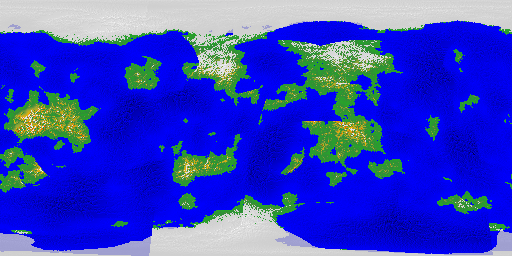
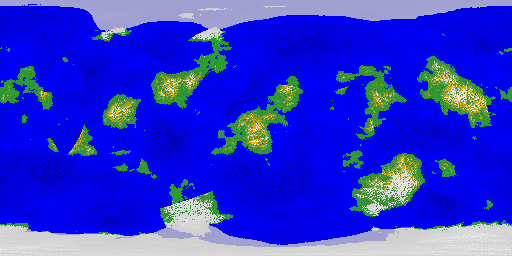
fixed stuff

diff --git a/src/main.cpp b/src/main.cpp
@@ -601,7 +601,6 @@ std::cout << "writing temp.png" << std::endl;
 		Image::system->write("temp.png", img);
 	}
 
-#if 0
 	// hmm, I've got my Image library, and I've got my matrix lua library, and I've got my matrix ffi library ... hmmmmmmm
 	auto img = std::make_shared<Image::Image>(size);
 	for (auto i : hs.range()) {
@@ -625,7 +624,8 @@ std::cout << "writing temp.png" << std::endl;
 		*(uchar3*)&(*img)(i.x, i.y) = (uchar3)c;
 	}
 	Image::system->write("out.png", img);
-#else
+
+
 	// attempt to convert it to a voxel sphere ...
 std::cout << "writing out.vox" << std::endl;
 	std::vector<uint32_t> v;
@@ -634,20 +634,20 @@ std::cout << "writing out.vox" << std::endl;
 	v.push_back(voxelSize);
 	v.push_back(voxelSize);
 	for (int k = 0; k < voxelSize; ++k) {
-		real z = (real(k) + .5) / real(voxelSize);
+		real z = (real(k) + .5) / real(voxelSize) - .5;
 		for (int j = 0; j < voxelSize; ++j) {
-			real y = (real(j) + .5) / real(voxelSize);
+			real y = (real(j) + .5) / real(voxelSize) - .5;
 			for (int i = 0; i < voxelSize; ++i) {
-				real x = (real(i) + .5) / real(voxelSize);
+				real x = (real(i) + .5) / real(voxelSize) - .5;
 
-				real r = sqrt(sqr(x - .5) + sqr(y - .5) + sqr(z - .5));
+				real r = sqrt(x * x + y * y + z * z);
 				uint32_t voxType = 0xffffffff;
 				if (r < .5) {
 					real theta = acos(z / r);
 					real phi = atan2(y, x);
 					int2 ij(
-						clamp(theta / M_PI, 0., 1.) * (size.x-1),
-						clamp(phi / (2. * M_PI), 0., 1.) * (size.y-1)
+						clamp((phi + M_PI) / (2. * M_PI), 0., 1.) * (size.x-1),
+						clamp(theta / M_PI, 0., 1.) * (size.y-1)
 					);
 
 					real h = hs(ij);
@@ -689,5 +689,4 @@ std::cout << "writing..." << std::endl;
 		std::string(strptr, strsize)
 	);
 std::cout << "...done" << std::endl;
-#endif
 }
